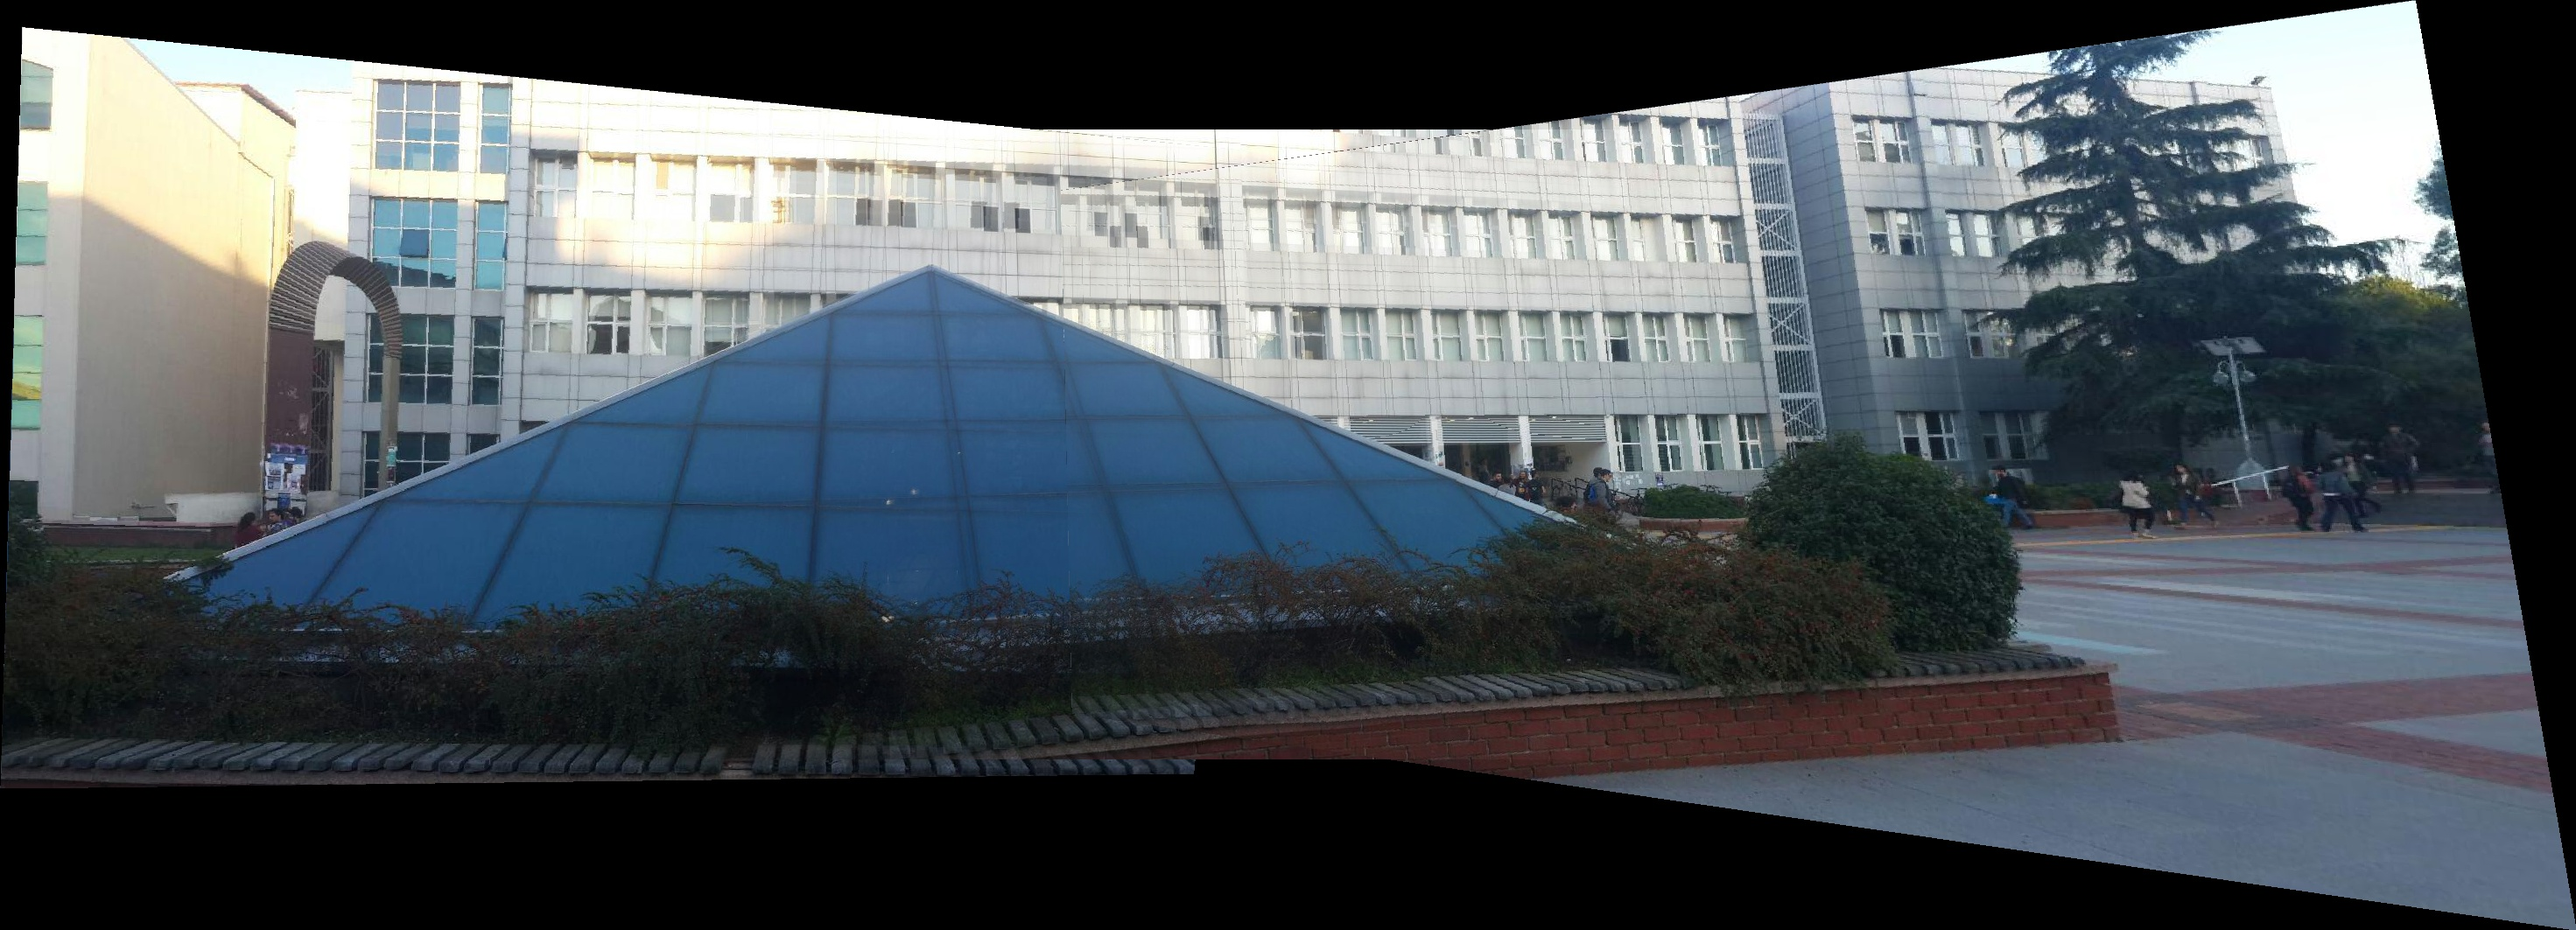
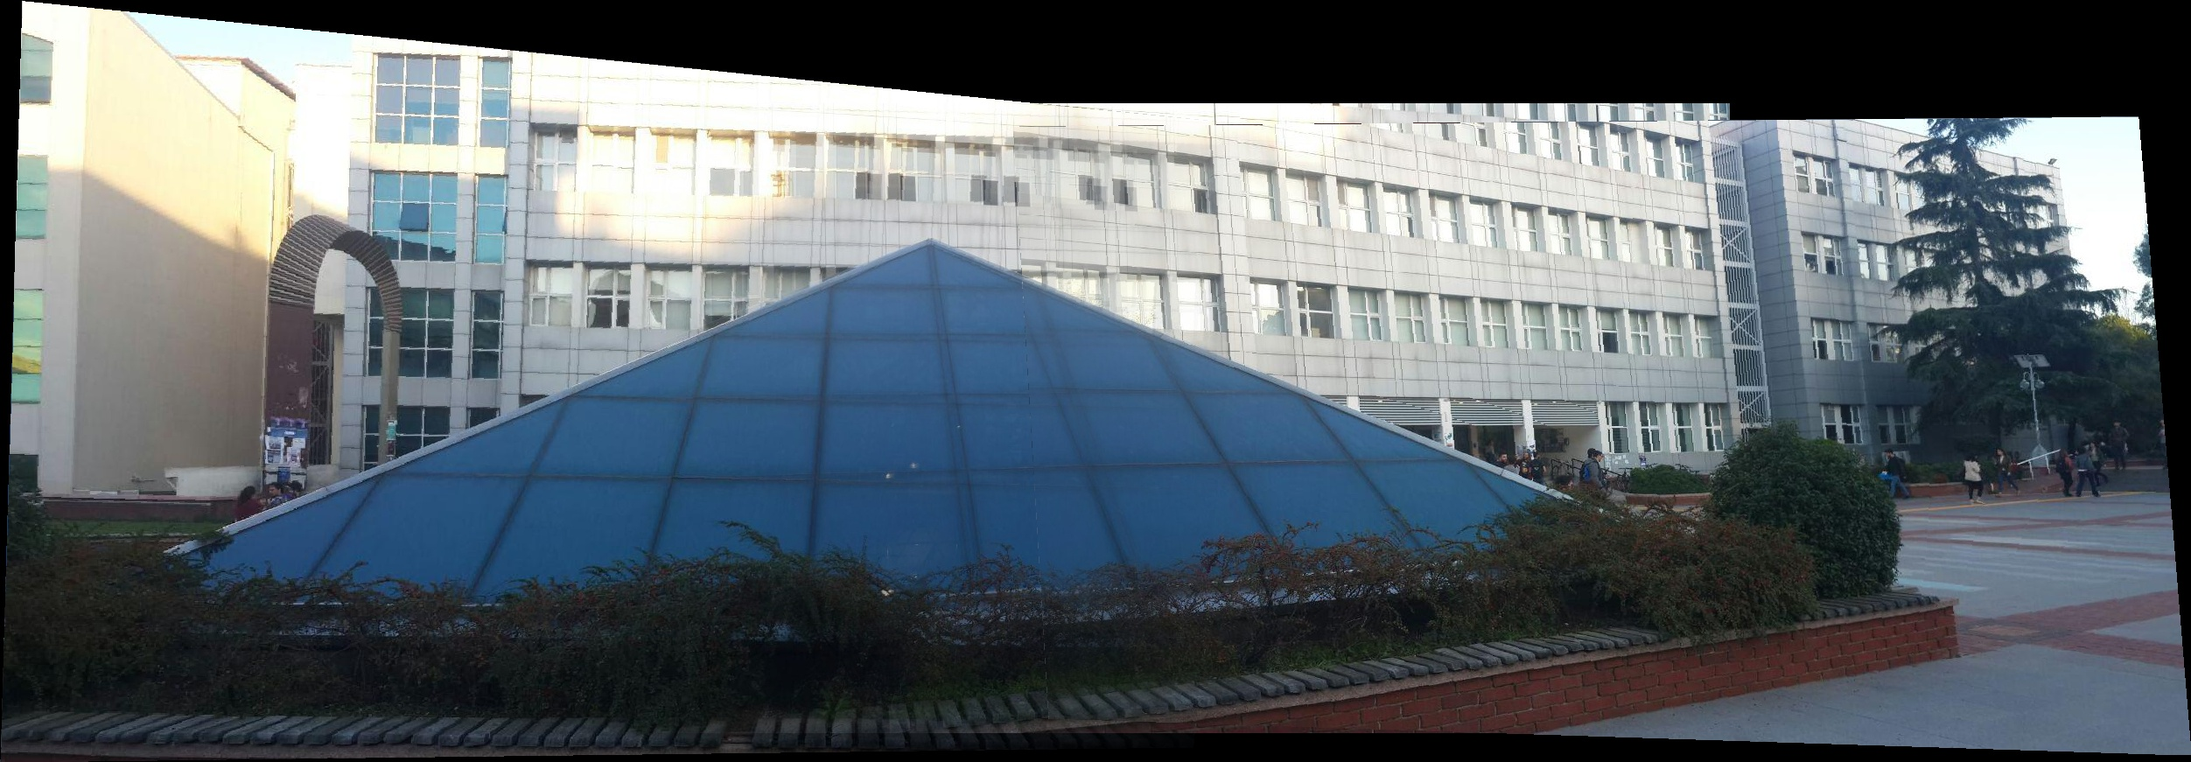
dome

diff --git a/Stitching/main.py b/Stitching/main.py
@@ -10,41 +10,7 @@ file_path = os.path.dirname(os.path.realpath(__file__))
 np.set_printoptions(suppress=True)
 
 
-def experiment(output_file, n_points = None, normalize=True, n_wrong = 0, noise=False):
-    # Left addition
-    base_image = cv2.imread(file_path + '/data/north_campus/middle.jpg')
-    addition_image = cv2.imread(file_path + '/data/north_campus/left-1.jpg')
-    base, addition = get_points('north_campus', 'middle', 'left-1')
-    
-    base_mean = np.mean(base, axis=0)
-    add_mean = np.mean(addition, axis=0)
-    orientation = add_mean-base_mean
-    if noise:
-        base_noise = np.random.normal(0, 5, base.shape).astype(int)
-        add_noise = np.random.normal(0, 5, addition.shape).astype(int)
-        base += base_noise
-        addition += add_noise
-    for x in range(n_wrong):
-        base_max = np.max(base, axis=0)
-        base_min = np.min(base, axis=0)
-        base_rand = [np.random.randint(base_min[0], base_max[0]), np.random.randint(base_min[1], base_max[1])]
-        add_rand = [base_rand[0]+orientation[0]+np.random.randint(-30,30), base_rand[1]+orientation[1]+np.random.randint(-30,30)]
-        base = np.vstack((base, base_rand))
-        addition = np.vstack((addition, add_rand))
-    if n_points is None:
-        h = computeH(addition, base, normalization=normalize)
-    else:
-        h = computeH(addition[:n_points], base[:n_points], normalization=normalize)
-    image_dist, coord = warp(addition_image, h)
-    left_image, origin = merge(base_image, image_dist, coord)
-
-
-    
-    # Right addition
-    base_image = cv2.imread(file_path + '/data/north_campus/middle.jpg')
-    addition_image = cv2.imread(file_path + '/data/north_campus/right-1.jpg')
-    addition, base = get_points('north_campus', 'middle', 'right-1')
-    
+def connect(base_image, addition_image, base, addition, origin=(0,0), noise=False, n_wrong = 0, n_points=None, normalize=True, add_origin=(0,0)):
     base_mean = np.mean(base, axis=0)
     add_mean = np.mean(addition, axis=0)
     orientation = add_mean-base_mean
@@ -64,11 +30,63 @@ def experiment(output_file, n_points = None, normalize=True, n_wrong = 0, noise=
         h = computeH(addition, base, normalization=normalize)
     else:
         h = computeH(addition[:n_points], base[:n_points], normalization=normalize)
-    image_dist, coord = warp(addition_image, h)
-    merged_image, origin = merge(left_image, image_dist, coord, origin)
+    image_dist, coord = warp(addition_image, h, add_origin=add_origin)
+    res_image, origin = merge(base_image, image_dist, coord, origin=origin)
+    return res_image, origin
+    
 
 
-    cv2.imwrite(file_path + "/" + output_file, merged_image)
+def experiment(output_file, n_points = None, normalize=True, n_wrong = 0, noise=False):
+    
+    # Right addition
+    base_image = cv2.imread(file_path + '/data/north_campus/middle.jpg') 
+    addition_image = cv2.imread(file_path + '/data/north_campus/right-1.jpg')
+    base, addition = get_points('north_campus', 'middle', 'right-1')
+    
+    res_image, origin = connect(base_image, addition_image, base, addition, noise=noise, n_wrong=n_wrong, n_points=n_points, normalize=normalize)
+
+    # Left addition
+    addition_image = cv2.imread(file_path + '/data/north_campus/left-1.jpg')
+    base, addition = get_points('north_campus', 'middle', 'left-1')
+    res_image, origin = connect(res_image, addition_image, base, addition, origin=origin, noise=noise, n_wrong=n_wrong, n_points=n_points, normalize=normalize)
+
+
+    cv2.imwrite(file_path + "/" + output_file, res_image)
+    
+def panorama():
+    
+    
+    print('Merging right side...')
+    base_image = cv2.imread(file_path + '/data/north_campus/right-1.jpg')
+    addition_image = cv2.imread(file_path + '/data/north_campus/right-2.jpg')
+    base, addition = get_points('north_campus', 'right-1', 'right-2')
+    
+    right_connected, right_origin = connect(base_image, addition_image, base, addition)
+    
+    
+    print('Merging right side to middle..')
+    base_image = cv2.imread(file_path + '/data/north_campus/middle.jpg')
+    base, addition = get_points('north_campus', 'middle', 'right-1')
+    
+    res_image, origin = connect(base_image, right_connected, base, addition, add_origin = right_origin)
+    
+    
+    print('Merging left side...')
+    base_image = cv2.imread(file_path + '/data/north_campus/left-1.jpg')
+    addition_image = cv2.imread(file_path + '/data/north_campus/left-2.jpg')
+    base, addition = get_points('north_campus', 'left-1', 'left-2')
+    
+    left_connected, left_origin = connect(base_image, addition_image, base, addition)
+    
+    
+    print('Merging all together...')
+    base, addition = get_points('north_campus', 'middle', 'left-1')
+    
+    res_image, origin = connect(res_image, left_connected, base, addition,origin=origin, add_origin = left_origin)
+    
+    cv2.imwrite(file_path + "/results/panorama.jpeg", res_image)
+    print("Done!")
+
 
 def main():
     print('Starting Experiment 1...')
@@ -83,7 +101,9 @@ def main():
     experiment('results/Experiment5.jpeg', n_wrong=5)
     print('Starting Experiment 6...')
     experiment('results/Experiment6.jpeg', noise=True)
-    print('Done.')
+    print('Starting Panorama...')
+    panorama()
+    
     
 
 if __name__ == '__main__':

diff --git a/Stitching/points_matching.py b/Stitching/points_matching.py
@@ -23,19 +23,47 @@ MATCHED_POINTS = {
                 
             'middle&right-1' :
                 [
-                    ((686, 612), (1186,639)),
-                    ((149, 258), (630,271)),
-                    ((370, 195), (817,205)),
-                    ((694, 273), (1166,264)),
-                    ((665, 335), (1133,333)),
-                    ((369, 67), (813,73)),
-                    ((231, 107), (688,125)),
-                    ((512, 402), (979,409)),
-                    ((238, 414), (714,417)),
-                    ((687, 118), (1159,96)),
-                    ((501, 331), (947,332)),
-                    ((253, 684), (743,675))
-                ]
+                    ((726, 200), (273,186)),
+                    ((723, 68), (272,47)),
+                    ((792, 334), (328,326)),
+                    ((976, 407), (510,400)),
+                    ((744, 677), (255,685)),
+                    ((710, 415), (236,412)),
+                    ((1134, 330), (666,332)),
+                    ((1177, 210), (703,221)),
+                    ((649, 198), (187,179)),
+                    ((1121, 86), (658,109)),
+                    ((536, 334), (33,324)),
+                    ((1096, 645), (607,624)),
+                ],
+            'right-1&right-2' : [
+                    ((1043, 619), (751,595)),
+                    ((1044, 555), (755,536)),
+                    ((836, 335), (569,324)),
+                    ((667, 332), (397,316)),
+                    ((702, 223), (437,208)),
+                    ((327, 329), (9,305)),
+                    ((511, 404), (215,388)),
+                    ((608, 623), (316,619)),
+                    ((375, 195), (77,164)),
+                    ((371, 60), (76,18)),
+                    ((499, 330), (217,313)),
+                    ((1165, 286), (869,285)),
+                ],
+            'left-1&left-2': [
+                    ((491, 431), (1186,434)),
+                    ((420, 93), (1076,74)),
+                    ((22, 372), (695,363)),
+                    ((342, 431), (1019,427)),
+                    ((582, 205), (1265,180)),
+                    ((576, 132), (1256,95)),
+                    ((321, 246), (967,240)),
+                    ((23, 141), (700,155)),
+                    ((321, 132), (969,126)),
+                    ((525, 347), (1225,342)),
+                    ((478, 272), (1138,263)),
+                    ((186, 465), (838,451)),
+                ],
         }
 }
 

diff --git a/Stitching/utils/warping.py b/Stitching/utils/warping.py
@@ -1,7 +1,9 @@
 import numpy as np
+from numba import jit
 
-def warp(image, H):
+def warp(image, H, add_origin=(0,0)):
     
+    @jit(nopython=True)
     def get_points(m, x, y):
         return (m[0,0]*x+m[0,1]*y+m[0,2])/(m[2,0]*x+m[2,1]*y+m[2,2]), (m[1,0]*x+m[1,1]*y+m[1,2])/(m[2,0]*x+m[2,1]*y+m[2,2])
     
@@ -11,21 +13,16 @@ def warp(image, H):
         except IndexError:
             return np.array([0,0,0])
     
-    ymax = image.shape[0]
-    xmax = image.shape[1]
-    
-    # corners = np.array([
-    #     np.matmul(H,np.array([xmax,ymax,1])),
-    #     np.matmul(H,np.array([0,ymax,1])),
-    #     np.matmul(H,np.array([xmax,0,1])),
-    #     np.matmul(H,np.array([0,0,1])),
-    # ], dtype=int)
+    ymax = image.shape[0]-add_origin[0]
+    xmax = image.shape[1]-add_origin[1]
+    ymin = -add_origin[0]
+    xmin = -add_origin[1]
     
     corners = np.array([
         get_points(H, xmax, ymax),
-        get_points(H, 0, ymax),
-        get_points(H, xmax, 0),
-        get_points(H, 0, 0),
+        get_points(H, xmin, ymax),
+        get_points(H, xmax, ymin),
+        get_points(H, xmin, ymin),
     ], dtype=int)
     
     ymax_out = np.max(corners[:,1])
@@ -44,7 +41,7 @@ def warp(image, H):
     for y in range(ymin_out, ymax_out):
         for x in range(xmin_out, xmax_out):
             p_src = get_points(hinv, x, y)
-            if p_src[0] < xmax and  p_src[0] > 0 and p_src[1] < ymax and  p_src[1] > 0:
+            if p_src[0] < xmax and  p_src[0] > xmin and p_src[1] < ymax and  p_src[1] > ymin:
                 
                 ## LINEAR INTERPOLATION ##
                 # x_left = np.floor(p_src[0]).astype(int) 
@@ -65,7 +62,7 @@ def warp(image, H):
 
                 ### NEAREST NEIGHBOR ####
                 nearest = np.round(p_src).astype(int)
-                canvas[y-ymin_out,x-xmin_out] = image[nearest[1]-1, nearest[0]-1]
+                canvas[y-ymin_out,x-xmin_out] = image[nearest[1]-1-ymin, nearest[0]-1-xmin]
                 #########################
                 
     return canvas, (xmin_out, xmax_out, ymin_out, ymax_out)

diff --git a/Stitching/match_points.py b/Stitching/match_points.py
@@ -6,8 +6,8 @@ import os
 file_path = os.path.dirname(os.path.realpath(__file__))
 np.set_printoptions(suppress=True)
 
-image1 = cv2.imread(file_path + "/data/north_campus/right-1.jpg")
-image2 = cv2.imread(file_path + "/data/north_campus/middle.jpg")
+image1 = cv2.imread(file_path + "/data/north_campus/left-1.jpg")
+image2 = cv2.imread(file_path + "/data/north_campus/left-2.jpg")
 
 
 point_matcher(image1, image2)

diff --git a/Stitching/utils/merge.py b/Stitching/utils/merge.py
@@ -17,7 +17,7 @@ def merge(img1, img2, img2_coordinates, origin=(0,0)):
     # Check for right overflow
     if xmax < img2_coordinates[1]+origin[1]:
         xmax = img2_coordinates[1]+origin[1]
-        start = img2.shape[1]+origin[1]
+        start = img1.shape[1]+origin[1]
         end = img2_coordinates[0]+origin[1]
     
     # Check for top overflow
